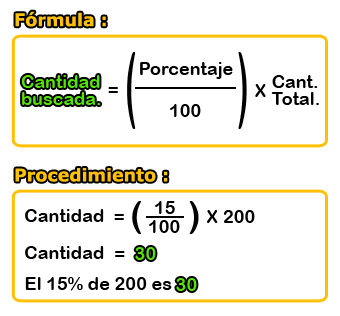
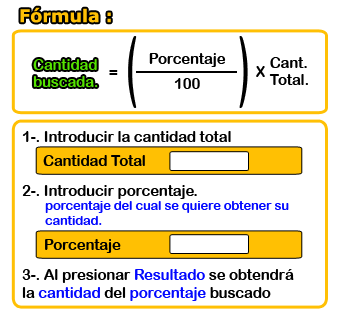
porcentaje_img

diff --git a/scripts/porcentaje/porcent2.js b/scripts/porcentaje/porcent2.js
@@ -374,10 +374,10 @@ function enableBtnResult(eventForward){
 };
 // --- seleccion de medida ---
 function medSel(id) {
-    if(id == "Cantidad Parcial" || id == "Decimal" || id == "Aumento" || id == "Disminución"){
+    if(id == "Porcentaje Buscado" || id == "Decimal" || id == "Aumento" || id == "Disminución"){
         return "%";
     }
-    else if(id == "Porcentaje" || id == "Total a pagar"){
+    else if(id == "Cantidad Buscada" || id == "Total a pagar"){
         return "";
     }
 };
@@ -443,14 +443,18 @@ function disableWinInp(pos){
         }
     }
 };
-function printResult(pos, id, result){
+function printResult(pos, id, result, med){
     if(pos == "top"){
         windowResultCalcTop.classList.add("bgChange");
-        windowResultCalcTop.innerHTML = `${id} = ${formato(result.toFixed(2))} ${medSel(id)}`;
+        // windowResultCalcTop.innerHTML = `${id} = ${formato(result.toFixed(2))} ${medSel(id)}`;
+        windowResultCalcTop.innerHTML = `${id} ${result} ${med}`;
+
     }
     else if(pos == "bottom"){
         windowResultCalcBottom.classList.add("bgChange");
-        windowResultCalcBottom.innerHTML = `${id} = ${formato(result.toFixed(2))} ${medSel(id)}`;
+        // windowResultCalcBottom.innerHTML = `${id} = ${formato(result.toFixed(2))} ${medSel(id)}`;
+        windowResultCalcBottom.innerHTML = `${id} ${result} ${med}`;
+
     }
 };
 // --- logica funciones ---
@@ -461,7 +465,7 @@ function porcentajeFn(){
             const result = (cantParcial/cantTotal) * 100;
             calcWin1Vr.classList.add("resultColor");
             calcWin2Vr.classList.add("resultColor");
-            printResult("top", "Cantidad Parcial", result);
+            printResult("top", "Cantidad Parcial =", `${formato(result.toFixed(2))}`, "%" );
             calcWin1Vr.removeAttribute("type", "number");
             calcWin1Vr.value = formato(cantTotal.toFixed(2));
             calcWin2Vr.removeAttribute("type", "number");
@@ -480,7 +484,9 @@ function cantidadFn(){
             const result = (porcentaje/100) * cantTotal;
             calcWin3Vr.classList.add("resultColor");
             calcWin4Vr.classList.add("resultColor");
-            printResult("bottom", "Porcentaje", result);
+            printResult("bottom", "Porcentaje =", `${formato(result.toFixed(2))}`, "Cant." );
+
+            // printResult("bottom", "Cantidad Buscada", result);
             calcWin3Vr.removeAttribute("type", "number");
             calcWin3Vr.value = formato(cantTotal.toFixed(2));
             calcWin4Vr.removeAttribute("type", "number");

diff --git a/scripts/porcentaje/porcent2DB.js b/scripts/porcentaje/porcent2DB.js
@@ -5,7 +5,7 @@ const intro = [
             "Porcentaje :",
             "Existen varias maneras de obtener un porcentaje dependiendo del contexto y del tipo de datos con los que estés trabajando. Algunas formas comunes de calcular porcentajes:",
         
-            "<span class='formulaSpan'>1. Porcentaje de una cantidad </span><br>Ejemplo: Si tienes 30 manzanas de un total de 150:</br>",
+            "<span class='formulaSpan'>1. Porcentaje de una cantidad </span><br><br>Ejemplo: Si tienes 30 manzanas de una cantidad total de 150 manzanas.<br>Qué porcentaje del total de 150 representan 30 manzanas ? </br>",
             "<div class='contImgForm'><img class='imgFormula' src='../assets2/porc_cant.png' alt=''></div>",
 
             "<span class='formulaSpan'>2. Cantidad de un porcentaje</span><br>Ejemplo: Para encontrar el 15% de 200:</br>",
@@ -54,7 +54,7 @@ const porcCantData = {
                     inputIdDb: "winCantTotP"
                 },
                 {
-                    inputLabelDb: "Cantidad Parcial",
+                    inputLabelDb: "Cantidad Parcial ",
                     inputIdDb: "winCanParc"
                 },
             ],

diff --git a/index.html b/index.html
@@ -29,7 +29,7 @@
     <section class="containerMainIcons">
         <section class="mainIcons">
             <div class="listIcons">
-                <a href="./assets2/per_area_icon.svg">
+                <a href="./pages/formulasBasicas.html">
                     Áreas y Perímetros
                     <img class="imgAP" src="./assets2/per_area_icon.svg" alt="">
                 </a>

diff --git a/pages/alturas.html b/pages/alturas.html
@@ -17,7 +17,7 @@
         <nav class="navBar">
             <!-- logo -->
             <figure class="imgCont">
-                <img class="logo" src="../assets/jslogo2.svg" alt="">
+                <img class="logo" src="../assets2/jslogo2.svg" alt="">
             </figure>
             <!-- icono hamburgesa -->
             <div class="menuMobile" id="moblilCont">

diff --git a/pages/estadistica.html b/pages/estadistica.html
@@ -17,7 +17,7 @@
         <nav class="navBar">
             <!-- logo -->
             <figure class="imgCont">
-                <img class="logo" src="../assets/jslogo2.svg" alt="">
+                <img class="logo" src="../assets2/jslogo2.svg" alt="">
             </figure>
             <!-- icono hamburgesa -->
             <div class="menuMobile" id="moblilCont">

diff --git a/pages/formulasBasicas.html b/pages/formulasBasicas.html
@@ -18,7 +18,7 @@
         <nav class="navBar">
             <!-- logo -->
             <figure class="imgCont">
-                <img class="logo" src="../assets/jslogo2.svg" alt="">
+                <img class="logo" src="../assets2/jslogo2.svg" alt="">
             </figure>
             <!-- icono hamburgesa -->
             <div class="menuMobile" id="moblilCont">

diff --git a/scripts/herramientas/herramientasDB.js b/scripts/herramientas/herramientasDB.js
@@ -43,7 +43,7 @@ const regla503020Obj = {
             ],
             windowHM: [
                 {
-                    titleW: "Necesidades Basicas $",
+                    titleW: "Necesidades Básicas $",
                     resultHerr: "resultHerrNecBas",
                 },
                 {

diff --git a/styles/porcent2.css b/styles/porcent2.css
@@ -290,6 +290,10 @@ body {
     padding: 10px;
     margin: 0px;
 }
+.formulaSpan{
+    font-size: 22px;
+    color: var(--blue);
+}
 /* ############# containerResponsive #############  */
 .containerResponsive {
     display: grid;
